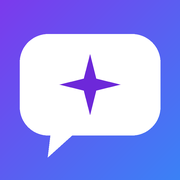
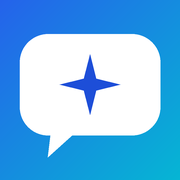
Tema azul y nombres de modelo cortos (v1.4.0)
Claude-Session: https://claude.ai/code/session_016d2wbzaJJn3kntAmxU4bjx

diff --git a/css/styles.css b/css/styles.css
@@ -1,15 +1,15 @@
 /* ===== Sistema de diseño ===== */
 :root {
-  --bg: #0f0b1e;
-  --surface: #181330;
-  --surface-2: #211a40;
-  --border: #2e2654;
-  --text: #f1eefc;
-  --muted: #a49cc7;
-  --primary: #7c3aed;
-  --primary-2: #8b5cf6;
-  --accent: #a78bfa;
-  --user: #2a1f5c;
+  --bg: #070d1f;
+  --surface: #0e1830;
+  --surface-2: #15244a;
+  --border: #1f3366;
+  --text: #eaf1ff;
+  --muted: #8fa5d1;
+  --primary: #2563eb;
+  --primary-2: #3b82f6;
+  --accent: #60a5fa;
+  --user: #15306b;
   --ok: #34d399;
   --err: #f87171;
   --shadow: 0 10px 30px rgba(0, 0, 0, .45);
@@ -20,16 +20,16 @@
   color-scheme: dark;
 }
 :root[data-theme="light"] {
-  --bg: #f6f4ff; --surface: #ffffff; --surface-2: #efebff; --border: #dcd5f5;
-  --text: #1c1537; --muted: #6a6191; --primary: #6d28d9; --primary-2: #7c3aed;
-  --accent: #6d28d9; --user: #e6defc; --shadow: 0 10px 30px rgba(60, 30, 130, .15);
+  --bg: #f1f6ff; --surface: #ffffff; --surface-2: #e3edff; --border: #cddcf7;
+  --text: #0f1b3a; --muted: #5a6f9a; --primary: #1d4ed8; --primary-2: #2563eb;
+  --accent: #1d4ed8; --user: #dbe8ff; --shadow: 0 10px 30px rgba(20, 60, 150, .15);
   color-scheme: light;
 }
 @media (prefers-color-scheme: light) {
   :root:not([data-theme="dark"]) {
-    --bg: #f6f4ff; --surface: #ffffff; --surface-2: #efebff; --border: #dcd5f5;
-    --text: #1c1537; --muted: #6a6191; --primary: #6d28d9; --primary-2: #7c3aed;
-    --accent: #6d28d9; --user: #e6defc; --shadow: 0 10px 30px rgba(60, 30, 130, .15);
+    --bg: #f1f6ff; --surface: #ffffff; --surface-2: #e3edff; --border: #cddcf7;
+  --text: #0f1b3a; --muted: #5a6f9a; --primary: #1d4ed8; --primary-2: #2563eb;
+  --accent: #1d4ed8; --user: #dbe8ff; --shadow: 0 10px 30px rgba(20, 60, 150, .15);
     color-scheme: light;
   }
 }
@@ -73,7 +73,7 @@ a { color: var(--accent); }
 .scrim.show { opacity: 1; pointer-events: auto; }
 .sidebar-head { display: flex; align-items: center; justify-content: space-between; }
 .brand { display: flex; align-items: center; gap: var(--s2); font-weight: 700; font-size: 20px; letter-spacing: -.02em; }
-.logo { width: 26px; height: 26px; border-radius: 8px; background: linear-gradient(135deg, #7c3aed, #3b82f6); }
+.logo { width: 26px; height: 26px; border-radius: 8px; background: linear-gradient(135deg, #2563eb, #06b6d4); }
 
 @media (min-width: 900px) {
   .sidebar { position: static; transform: none; width: var(--side-w); flex: none; box-shadow: none; padding-top: var(--s4); }
@@ -137,7 +137,7 @@ a { color: var(--accent); }
 .md h1 { font-size: 1.35em; } .md h2 { font-size: 1.2em; } .md h3 { font-size: 1.07em; }
 .md blockquote { border-left: 3px solid var(--primary); padding-left: var(--s3); color: var(--muted); }
 .md code { font-family: ui-monospace, SFMono-Regular, Menlo, monospace; font-size: .88em; background: var(--surface-2); padding: 2px 6px; border-radius: 6px; }
-.md pre { position: relative; background: #0b0816; color: #e8e4fb; border: 1px solid var(--border); border-radius: var(--r-m); padding: var(--s4); padding-top: 40px; overflow-x: auto; }
+.md pre { position: relative; background: #060b18; color: #e8e4fb; border: 1px solid var(--border); border-radius: var(--r-m); padding: var(--s4); padding-top: 40px; overflow-x: auto; }
 .md pre code { background: none; padding: 0; font-size: 13.5px; color: inherit; }
 .md pre .copy { position: absolute; top: 6px; right: 6px; min-height: 32px; padding: 0 var(--s3); border-radius: 8px; font-size: 12px; background: var(--surface-2); color: var(--text); }
 .md table { border-collapse: collapse; display: block; overflow-x: auto; }

diff --git a/js/app.js b/js/app.js
@@ -3,7 +3,7 @@
    FreeIA – chat con IA gratis (sin compilación, sin servidor propio)
    ===================================================================== */
 
-const APP_VERSION = '1.3.0';
+const APP_VERSION = '1.4.0';
 
 /* ---------- Constantes ---------- */
 const STORE_CHATS = 'freeia.chats.v1';
@@ -152,6 +152,21 @@ function setBody(el, content, streaming) {
 /* ---------- Modelos ---------- */
 const modelByKey = (key) => state.models.find((m) => m.key === key);
 const makeKey = (provider, id) => `${provider}::${id}`;
+const FILLER = /^(instruct|chat|preview|free|latest|beta|it|the|model|exp|experimental|hf|thinking)$/i;
+function shortLabel(name, id, maxTokens = 3) {
+  let n = String(name || '').replace(/\(free\)/ig, '').replace(/^[^:]*:\s*/, '').trim();
+  if (!n) n = prettify(id);
+  const toks = n.replace(/[()]/g, '').split(/[\s_-]+/).filter((t) => t && !FILLER.test(t)).slice(0, maxTokens);
+  let out = '';
+  for (const t of toks) {
+    const low = t.toLowerCase();
+    if (!out) out = low;
+    else if (/^v?[\d.]+[a-z]*$/i.test(t) && !/[\d.]$/.test(out.split(' ').pop())) out += low;
+    else out += ' ' + low;
+  }
+  return out || prettify(id).toLowerCase();
+}
+const vendorOf = (name) => { const m = /^([^:]+):/.exec(String(name || '')); return m ? m[1].trim() : ''; };
 const prettify = (id) => id.replace(/^.*\//, '').replace(/:free$/, '').replace(/[-_]/g, ' ');
 
 async function fetchProviderModels(provider) {
@@ -175,11 +190,18 @@ async function fetchProviderModels(provider) {
     }
     out.push({
       key: makeKey(provider, id), provider, id,
-      label: (provider === 'openrouter' && item.name) ? String(item.name).replace(/\s*\(free\)\s*$/i, '') : prettify(id),
-      desc: typeof item === 'object' ? String(item.description || '').slice(0, 90) : '',
+      label: shortLabel(provider === 'openrouter' ? item.name : '', id),
+      desc: provider === 'openrouter' ? vendorOf(item.name) : '',
     });
   }
   if (!out.length) throw new Error('vacío');
+  const seen = new Map();
+  for (const m of out) {
+    const item = raw.find((r) => (typeof r === 'string' ? r : r.id || r.name) === m.id);
+    if (seen.has(m.label)) m.label = shortLabel(typeof item === 'object' && provider === 'openrouter' ? item.name : '', m.id, 4);
+    if (seen.has(m.label)) m.label += ` ${m.id.slice(-4)}`;
+    seen.set(m.label, true);
+  }
   return out;
 }
 
@@ -866,7 +888,7 @@ function applyTheme() {
   else root.setAttribute('data-theme', settings.theme);
   const dark = settings.theme === 'dark' || (settings.theme === 'auto' && !matchMedia('(prefers-color-scheme: light)').matches);
   const meta = $('meta[name="theme-color"]');
-  if (meta) meta.setAttribute('content', dark ? '#0f0b1e' : '#f6f4ff');
+  if (meta) meta.setAttribute('content', dark ? '#070d1f' : '#f1f6ff');
 }
 function toggleTheme() {
   const isDark = document.documentElement.getAttribute('data-theme') === 'dark'

diff --git a/index.html b/index.html
@@ -5,7 +5,7 @@
 <title>FreeIA – Chat con IA gratis</title>
 <meta name="description" content="Chat de IA gratis con todos los modelos gratuitos, imágenes y comparación de respuestas.">
 <meta name="viewport" content="width=device-width, initial-scale=1, maximum-scale=1, user-scalable=no, viewport-fit=cover">
-<meta name="theme-color" content="#0f0b1e">
+<meta name="theme-color" content="#070d1f">
 <meta name="apple-mobile-web-app-capable" content="yes">
 <meta name="mobile-web-app-capable" content="yes">
 <meta name="apple-mobile-web-app-status-bar-style" content="black-translucent">

diff --git a/sw.js b/sw.js
@@ -1,5 +1,5 @@
 /* FreeIA service worker – precache + auto-actualización */
-const CACHE = 'freeia-v1.3.0';
+const CACHE = 'freeia-v1.4.0';
 const PRECACHE = [
   './',
   './index.html',
